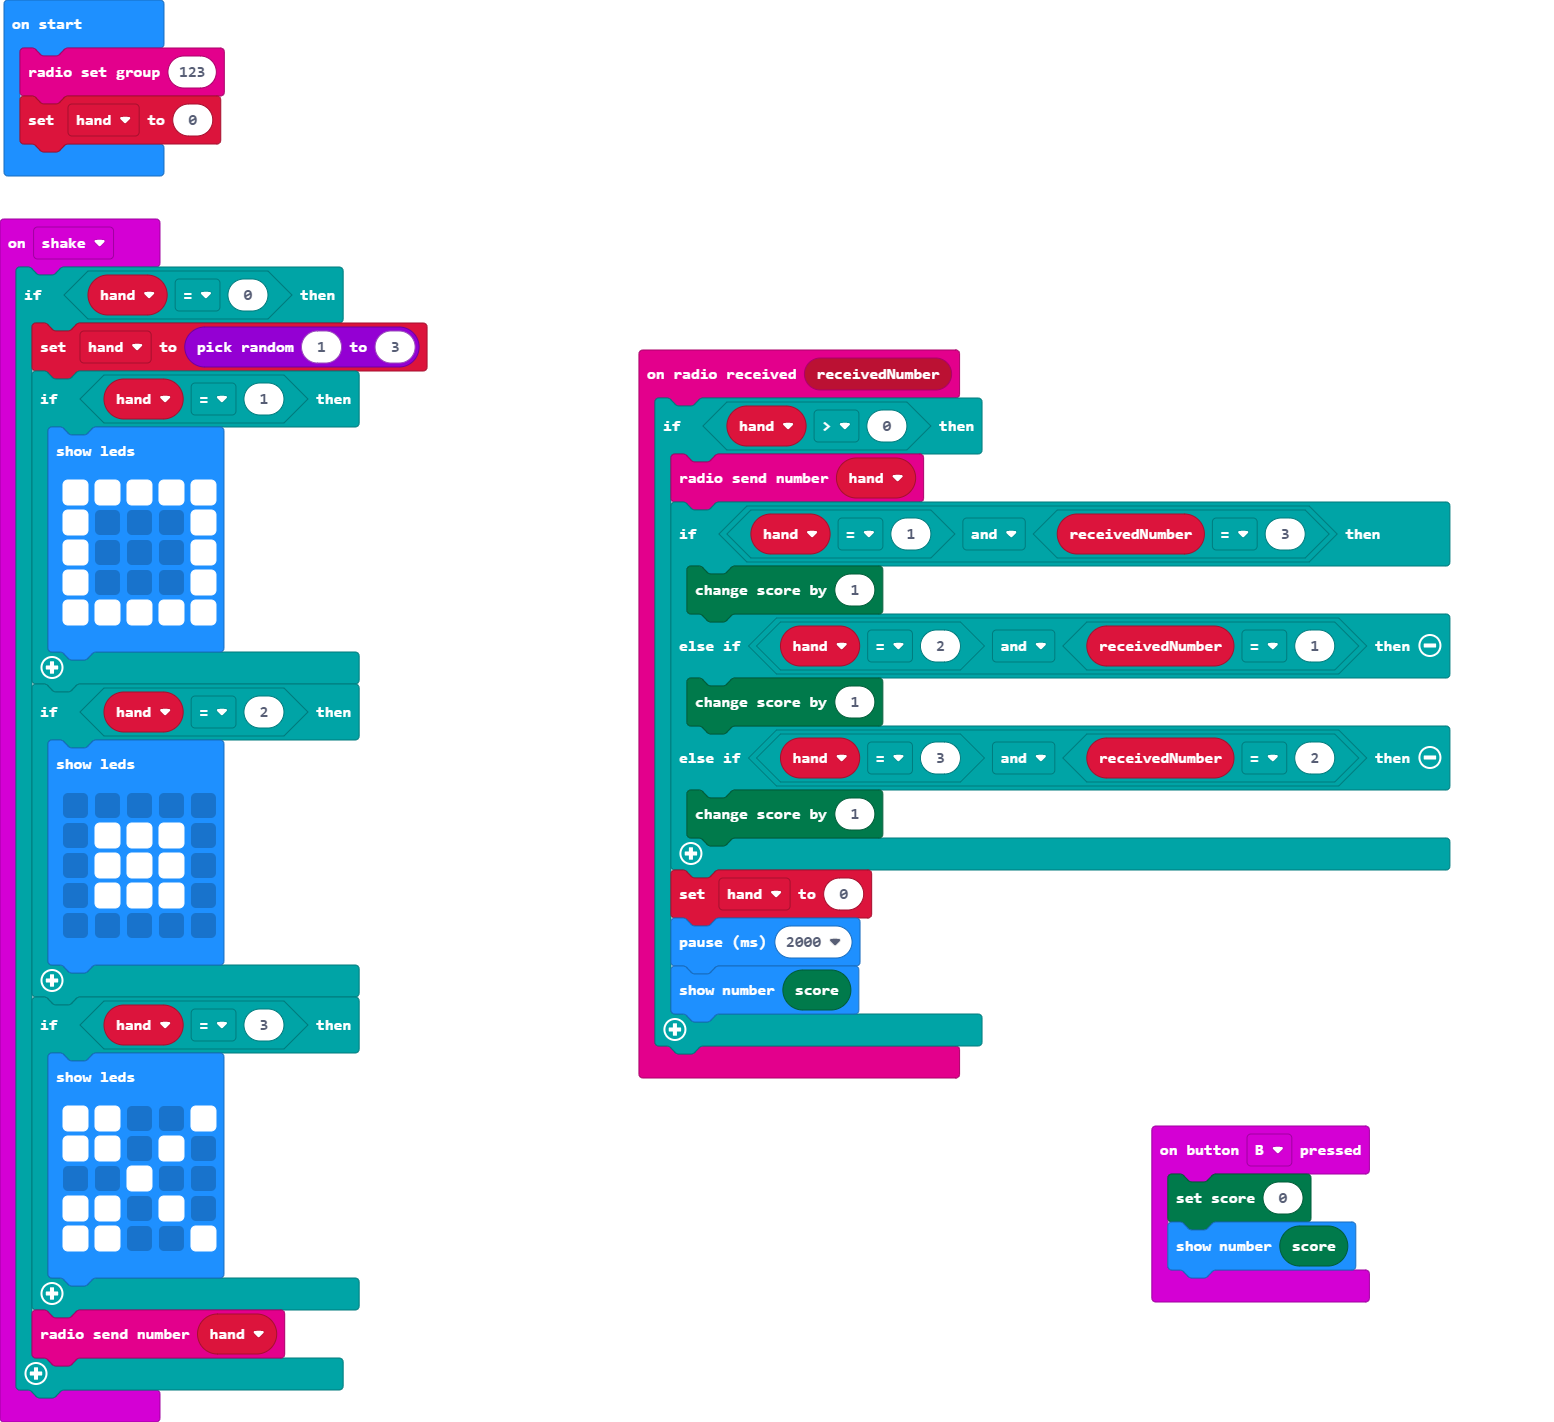
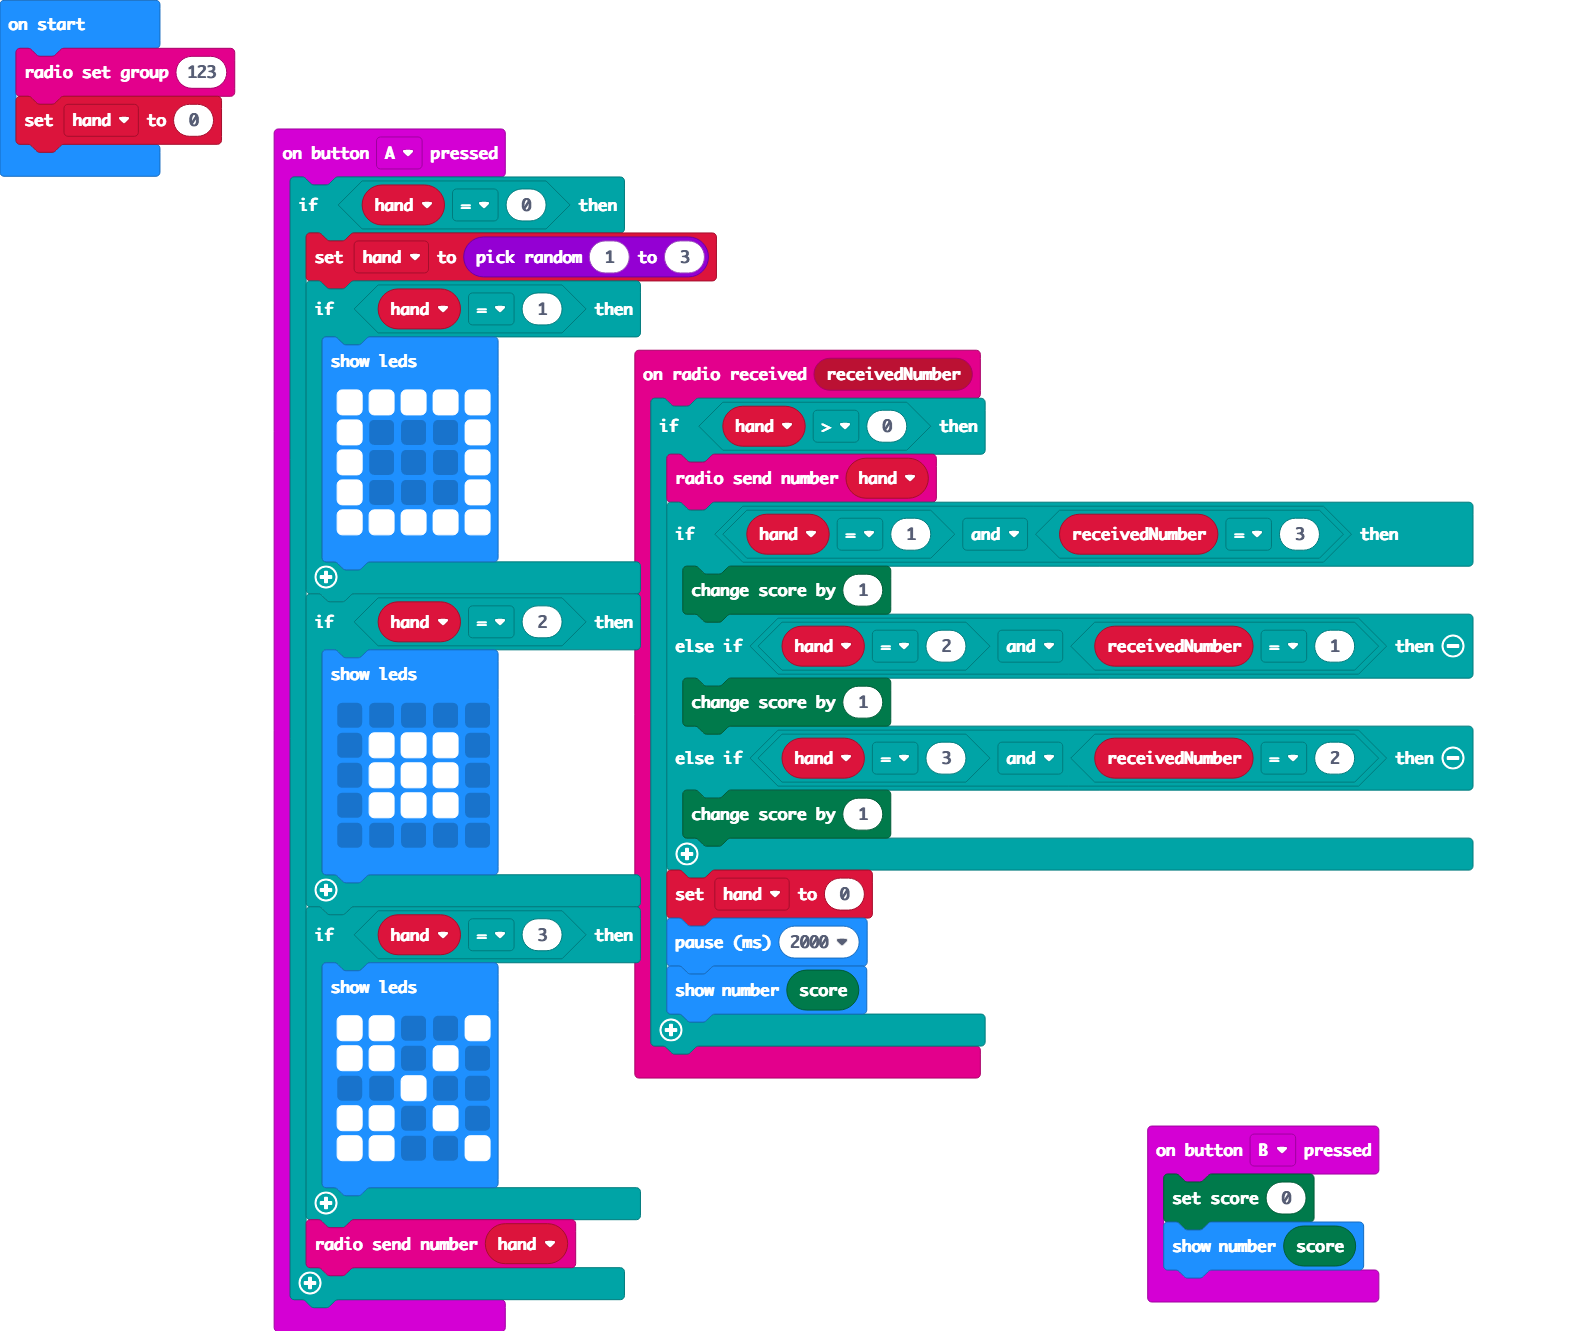
Update main.blocks, main.ts

diff --git a/main.ts b/main.ts
@@ -13,11 +13,7 @@ radio.onReceivedNumber(function (receivedNumber) {
         basic.showNumber(game.score())
     }
 })
-input.onButtonPressed(Button.B, function () {
-    game.setScore(0)
-    basic.showNumber(game.score())
-})
-input.onGesture(Gesture.Shake, function () {
+input.onButtonPressed(Button.A, function () {
     if (hand == 0) {
         hand = randint(1, 3)
         if (hand == 1) {
@@ -49,6 +45,10 @@ input.onGesture(Gesture.Shake, function () {
         }
         radio.sendNumber(hand)
     }
+})
+input.onButtonPressed(Button.B, function () {
+    game.setScore(0)
+    basic.showNumber(game.score())
 })
 let hand = 0
 radio.setGroup(123)
